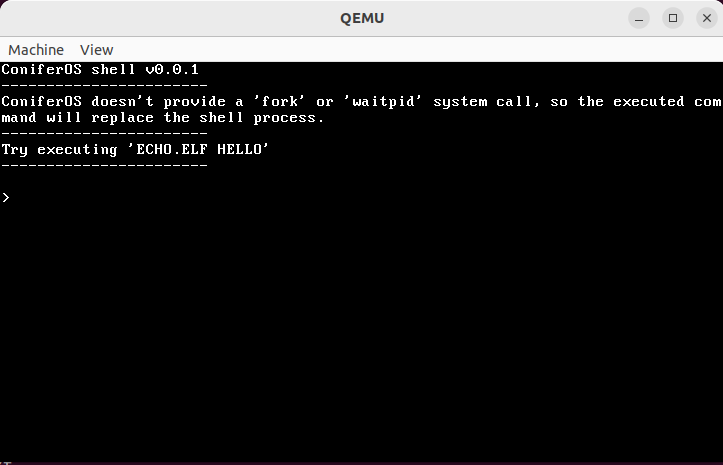
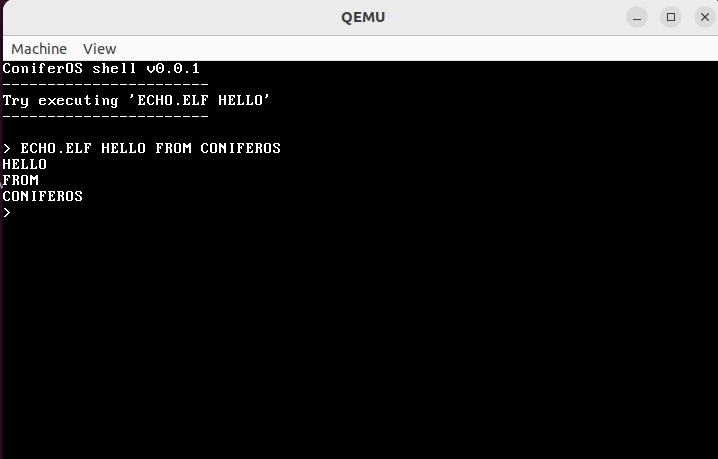
Implement exit system call
I implemented an exist system call, and modified the stdlib program
entry point (_start) to call exist after calling main.

Now, we can run multiple commands in a row from the same shell session.

Changed region(s): [[0.0, 0.0, 1.0, 1.0], [0.4903, 0.183, 1.0, 0.244]]

diff --git a/user_programs/shell/src/shell.c b/user_programs/shell/src/shell.c
@@ -88,8 +88,6 @@ int main(int argc, char **argv)
 {
     printf("ConiferOS shell v0.0.1\n");
     printf("-----------------------\n");
-    printf("ConiferOS doesn't provide a 'fork' or 'waitpid' system call, so the executed command will replace the shell process.\n");
-    printf("-----------------------\n");
     printf("Try executing 'ECHO.ELF HELLO'\n");
     printf("-----------------------\n\n");
 

diff --git a/src/isr80h/isr80h.c b/src/isr80h/isr80h.c
@@ -14,4 +14,5 @@ void isr80h_register_commands()
     isr80h_register_command(SYSTEM_COMMAND_4_MALLOC, isr80h_command_4_malloc);
     isr80h_register_command(SYSTEM_COMMAND_5_FREE, isr80h_command_5_free);
     isr80h_register_command(SYSTEM_COMMAND_6_EXECVE, isr80h_command_6_execve);
+    isr80h_register_command(SYSTEM_COMMAND_7_EXIT, isr80h_command_7_exit);
 }

diff --git a/user_programs/echo/src/echo.c b/user_programs/echo/src/echo.c
@@ -9,14 +9,9 @@
 
 int main(int argc, char *argv[]) 
 {
-    printf("\nWelcome to echo\n");
-    printf("There are %i arguments. Arguments separated by newline:\n", argc);
     for (int i = 0; i < argc; i++) {
+        printf("\n");
         printf(argv[i]);
-        printf("\n------------\n");
     }
-
-    for (;;) {
-
-    }
+    printf("\n");
 }

diff --git a/src/isr80h/process.c b/src/isr80h/process.c
@@ -91,3 +91,10 @@ int copy_argv_pointers_from_user_task(struct task *task, char *argv_usr_addr[], 
 
     return 0;
 }
+
+void *isr80h_command_7_exit(struct interrupt_frame *frame)
+{
+    process_terminate(get_current_process());
+    task_exec(task_get_next());
+    return 0;
+}

diff --git a/src/idt/idt.c b/src/idt/idt.c
@@ -71,7 +71,7 @@ void idt_handle_user_process_exception()
 	// user programs.
 	process_terminate(get_current_process());
 
-	task_exec(task_get_next());
+ 	task_exec(task_get_next());
 }
 
 // Interrupt vectors 0-32 are internal CPU exceptions

diff --git a/user_programs/stdlib/src/coniferos.h b/user_programs/stdlib/src/coniferos.h
@@ -38,4 +38,7 @@ int coniferos_terminal_readline(char *out, int max);
  */
 void coniferos_execve(const char *filename, const char *argv[], const int argc);
 
+// exit - cause normal process termination
+void coniferos_exit();
+
 #endif

diff --git a/src/isr80h/process.h b/src/isr80h/process.h
@@ -9,4 +9,7 @@
 // and then executes it in user mode.
 void *isr80h_command_6_execve(struct interrupt_frame *frame);
 
+// exit - cause normal process termination
+void *isr80h_command_7_exit(struct interrupt_frame *frame);
+
 #endif

diff --git a/src/isr80h/isr80h.h b/src/isr80h/isr80h.h
@@ -11,6 +11,7 @@ enum SystemCalls
     SYSTEM_COMMAND_4_MALLOC,
     SYSTEM_COMMAND_5_FREE,
     SYSTEM_COMMAND_6_EXECVE,
+    SYSTEM_COMMAND_7_EXIT,
 };
 
 /* Registers all kernel commands that are defined in isr80h/misc */
